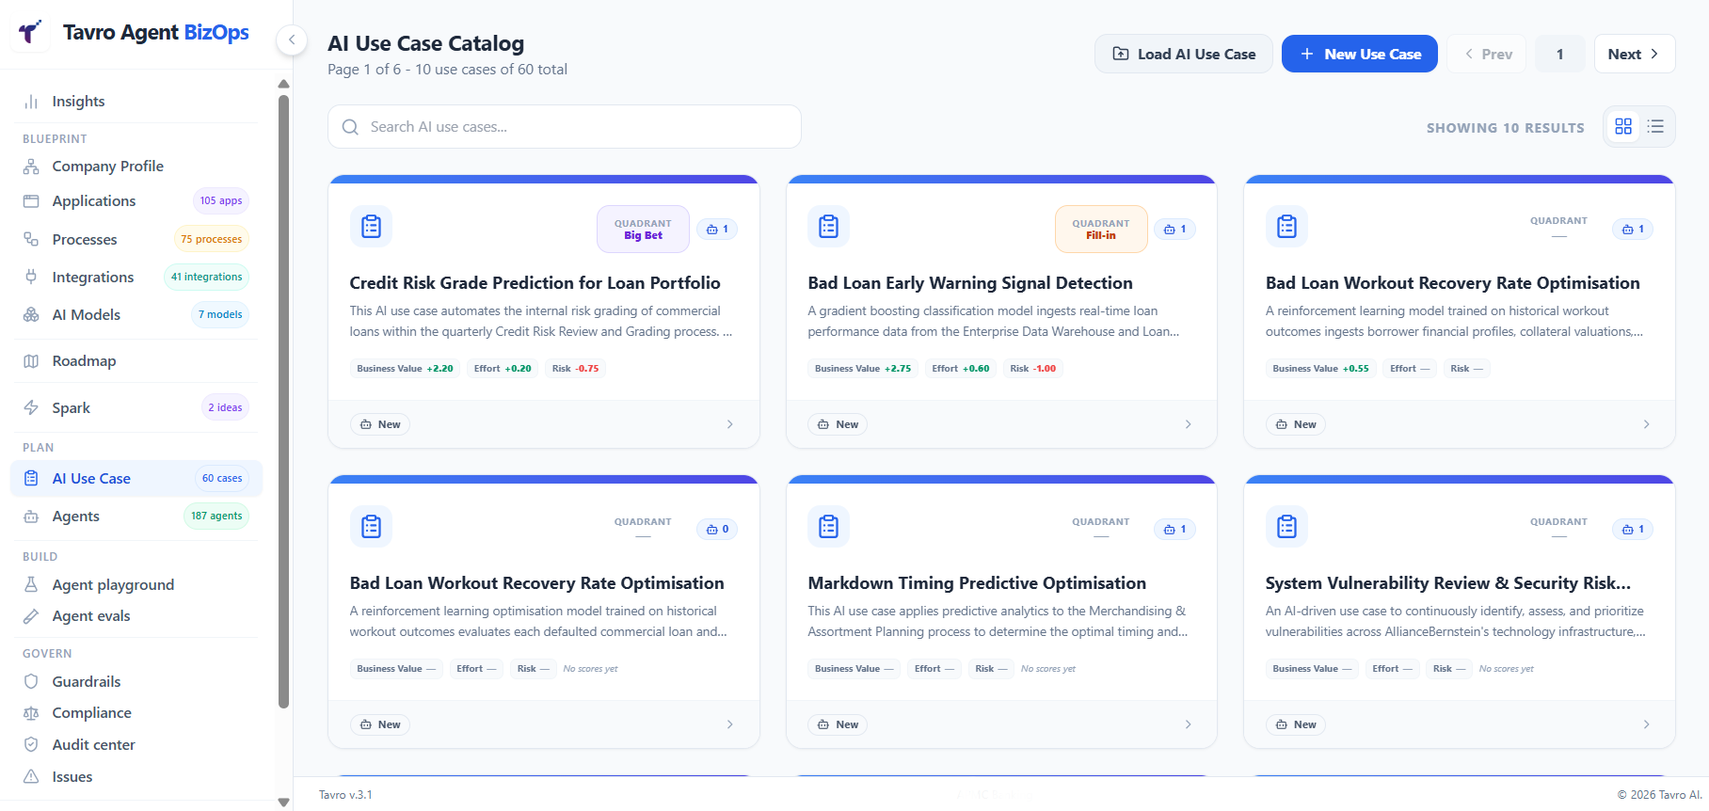
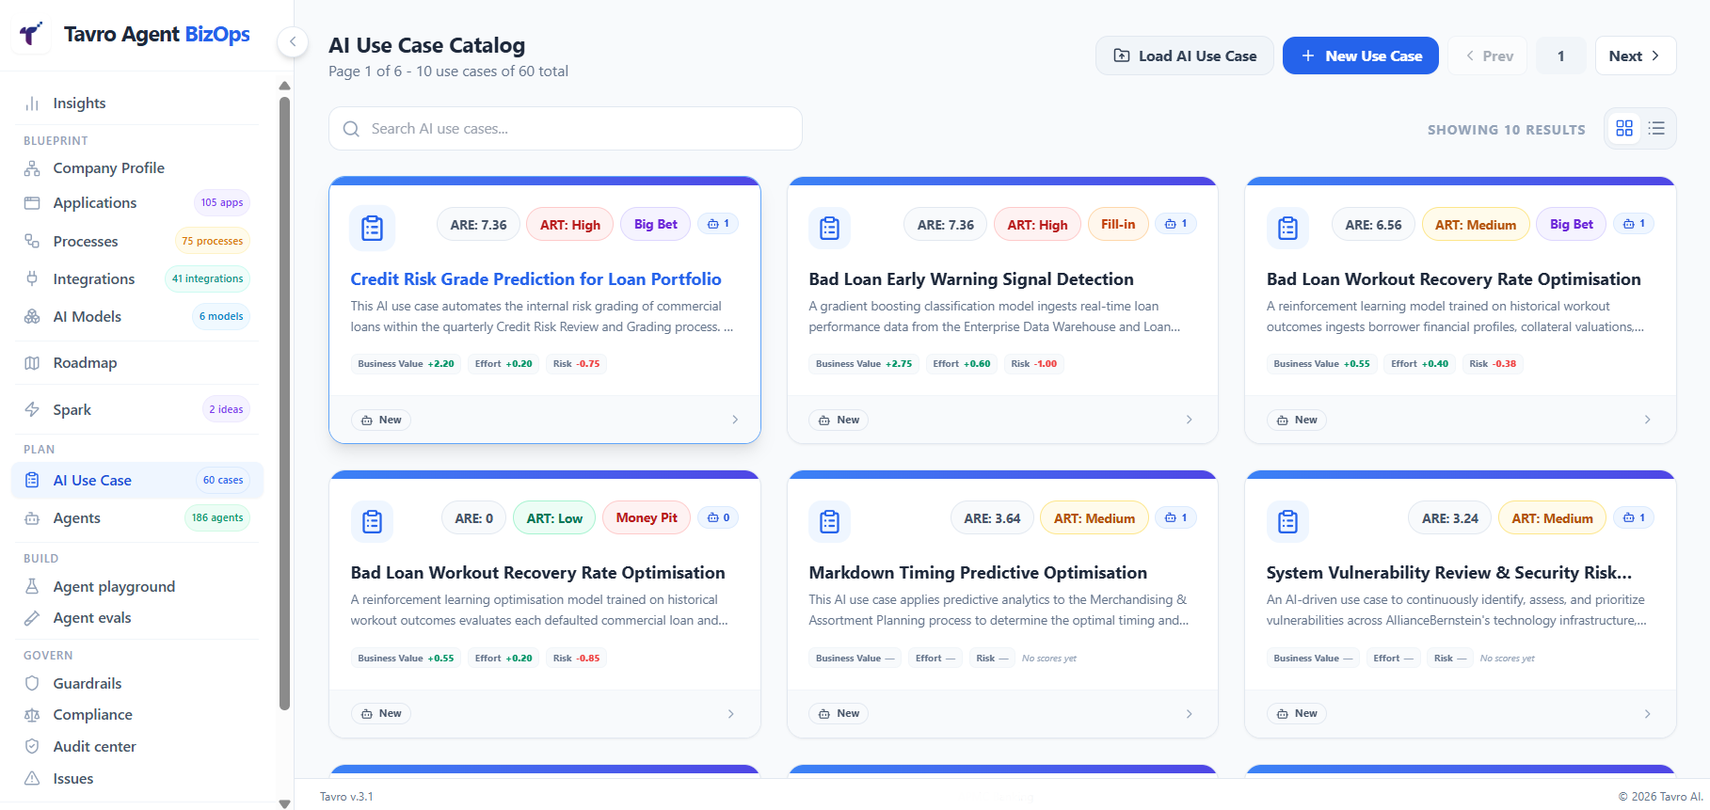
updated the document flow (#214)
* updated the document flow

* added the roadmap and spark in two different rows

diff --git a/tavro_app/src/pages/UserGuidePage.tsx b/tavro_app/src/pages/UserGuidePage.tsx
@@ -10,7 +10,7 @@ import {
     ShieldAlert, Unlink2, PlusCircle, Settings2, MessageSquare,
     ClipboardCheck, Loader2,
     Building2, Globe, RefreshCw, Layers,
-    Code2, Boxes, Map, TestTube2, Shield, TrendingUp, Activity,
+    Code2, Boxes, Map, TestTube2, Shield, TrendingUp, Activity, Cpu,
     Upload, Filter, Bookmark, FileText
 } from 'lucide-react';
 
@@ -150,16 +150,13 @@ const TOC_SECTIONS: TocSection[] = [
         ],
     },
     {
-        id: 'end-to-end-workflow', label: 'Blueprint → Spark → Production', icon: <ArrowRight size={14} />,
+        id: 'end-to-end-workflow', label: 'Blueprint → Spark → Plan → Roadmap', icon: <ArrowRight size={14} />,
         children: [
             { id: 'workflow-blueprint', label: 'Blueprint' },
             { id: 'workflow-spark', label: 'Spark' },
             { id: 'workflow-usecases', label: 'AI Use Cases' },
             { id: 'workflow-agents', label: 'Agents' },
             { id: 'workflow-roadmap', label: 'Roadmap' },
-            { id: 'workflow-build', label: 'Build' },
-            { id: 'workflow-deploy', label: 'Deploy' },
-            { id: 'workflow-govern', label: 'Govern' },
         ],
     },
     {
@@ -381,8 +378,15 @@ const UserGuidePage: React.FC = () => {
                                 <NavItem icon={<Workflow size={16} />} name="Processes" route="/processes" desc="Business workflows and their AI exposure" />
                                 <NavItem icon={<Plug size={16} />} name="Integrations" route="/integrations" desc="APIs and connectors used by agents" />
                                 <NavItem icon={<Boxes size={16} />} name="AI Models" route="/ai-models" desc="AI models registered for use across agents" />
-                                <NavItem icon={<Map size={16} />} name="Roadmap" route="/roadmap" desc="Priority × Risk matrix for AI adoption planning" enterprise />
-                                <NavItem icon={<Zap size={16} />} name="Spark" route="/spark" desc="AI-generated use case ideas from your business context" />
+
+                                <GroupLabel label="" />
+                                <div className="col-span-2">
+                                    <NavItem icon={<Map size={16} />} name="Roadmap" route="/roadmap" desc="Priority × Risk matrix for AI adoption planning" enterprise />
+                                </div>
+                                <div className="col-span-2 h-px bg-slate-100 dark:bg-slate-800" />
+                                <div className="col-span-2">
+                                    <NavItem icon={<Zap size={16} />} name="Spark" route="/spark" desc="AI-generated use case ideas from your business context" />
+                                </div>
 
                                 {/* Plan */}
                                 <GroupLabel label="Plan" />
@@ -436,15 +440,15 @@ const UserGuidePage: React.FC = () => {
 
                     <SectionHeading id="home-flow" level={3}>Flow Blueprint</SectionHeading>
                     <p className="text-sm text-slate-600 dark:text-slate-400 leading-relaxed mb-3">
-                        Below the KPIs, the Flow Blueprint shows your AI adoption pipeline as a five-stage funnel. Each stage links directly to its corresponding section:
+                        Below the KPIs, the Flow Blueprint shows your AI adoption pipeline as a six-stage funnel. Each stage links directly to its corresponding section:
                     </p>
                     <FlowDiagram steps={[
-                        { icon: <Network size={15} />, label: 'Blueprint', color: 'bg-violet-50 dark:bg-violet-900/30 border-violet-200 dark:border-violet-700 text-violet-700 dark:text-violet-300' },
+                        { icon: <Map size={15} />, label: 'Blueprint', color: 'bg-violet-50 dark:bg-violet-900/30 border-violet-200 dark:border-violet-700 text-violet-700 dark:text-violet-300' },
                         { icon: <Zap size={15} />, label: 'Spark', color: 'bg-violet-50 dark:bg-violet-900/30 border-violet-200 dark:border-violet-700 text-violet-700 dark:text-violet-300' },
                         { icon: <ClipboardList size={15} />, label: 'Plan', color: 'bg-blue-50 dark:bg-blue-900/30 border-blue-200 dark:border-blue-700 text-blue-700 dark:text-blue-300' },
-                        { icon: <FlaskConical size={15} />, label: 'Build', color: 'bg-emerald-50 dark:bg-emerald-900/30 border-emerald-200 dark:border-emerald-700 text-emerald-700 dark:text-emerald-300' },
-                        { icon: <Play size={15} />, label: 'Deploy', color: 'bg-slate-100 dark:bg-slate-800 border-slate-200 dark:border-slate-700 text-slate-700 dark:text-slate-300' },
-                        { icon: <ShieldCheck size={15} />, label: 'Govern', color: 'bg-rose-50 dark:bg-rose-900/30 border-rose-200 dark:border-rose-700 text-rose-700 dark:text-rose-300' },
+                        { icon: <Cpu size={15} />, label: 'Build', color: 'bg-emerald-50 dark:bg-emerald-900/30 border-emerald-200 dark:border-emerald-700 text-emerald-700 dark:text-emerald-300' },
+                        { icon: <Layers size={15} />, label: 'Deploy', color: 'bg-slate-100 dark:bg-slate-800 border-slate-200 dark:border-slate-700 text-slate-700 dark:text-slate-300' },
+                        { icon: <Activity size={15} />, label: 'Govern', color: 'bg-rose-50 dark:bg-rose-900/30 border-rose-200 dark:border-rose-700 text-rose-700 dark:text-rose-300' },
                     ]} />
                     <ul className="mt-2 space-y-1.5 text-sm text-slate-600 dark:text-slate-400 list-disc list-inside">
                         <li><strong>Blueprint</strong> — Map your company's applications, processes, integrations, and AI models</li>
@@ -550,27 +554,23 @@ const UserGuidePage: React.FC = () => {
                         </div>
                     </div>
 
-                    {/* ── Blueprint → Spark → Production ── */}
-                    <SectionHeading id="end-to-end-workflow" level={2} icon={<ArrowRight size={18} />}>Blueprint → Spark → Production</SectionHeading>
+                    {/* ── Blueprint → Spark → Plan → Roadmap ── */}
+                    <SectionHeading id="end-to-end-workflow" level={2} icon={<ArrowRight size={18} />}>Blueprint → Spark → Plan → Roadmap</SectionHeading>
                     <p className="text-sm text-slate-600 dark:text-slate-400 leading-relaxed mb-4">
-                        Tavro is designed around a structured journey — from building your organizational foundation to governing deployed AI agents. Each stage builds on the previous one, so working through them in order gives you the richest, most grounded experience.
+                        Tavro is designed around a structured journey — from building your organizational foundation to formalizing initiatives on the Roadmap. Each stage builds on the previous one, so working through them in order gives you the richest, most grounded experience. Once initiatives are prioritized, they move on to the separate <strong>Build</strong> and <strong>Govern</strong> stages.
                     </p>
                     <FlowDiagram steps={[
                         { icon: <Network size={15} />, label: 'Blueprint', color: 'bg-violet-50 dark:bg-violet-950/40 border-violet-200 dark:border-violet-800 text-violet-700 dark:text-violet-300' },
                         { icon: <Zap size={15} />, label: 'Spark', color: 'bg-violet-50 dark:bg-violet-950/40 border-violet-200 dark:border-violet-800 text-violet-700 dark:text-violet-300' },
                         { icon: <ClipboardList size={15} />, label: 'Plan', color: 'bg-blue-50 dark:bg-blue-950/40 border-blue-200 dark:border-blue-800 text-blue-700 dark:text-blue-300' },
-                        { icon: <FlaskConical size={15} />, label: 'Build', color: 'bg-emerald-50 dark:bg-emerald-950/40 border-emerald-200 dark:border-emerald-800 text-emerald-700 dark:text-emerald-300' },
-                        { icon: <Play size={15} />, label: 'Deploy', color: 'bg-slate-100 dark:bg-slate-800 border-slate-300 dark:border-slate-600 text-slate-700 dark:text-slate-300' },
-                        { icon: <ShieldCheck size={15} />, label: 'Govern', color: 'bg-rose-50 dark:bg-rose-950/40 border-rose-200 dark:border-rose-800 text-rose-700 dark:text-rose-300' },
+                        { icon: <Map size={15} />, label: 'Roadmap', color: 'bg-indigo-50 dark:bg-indigo-950/40 border-indigo-200 dark:border-indigo-800 text-indigo-700 dark:text-indigo-300' },
                     ]} />
                     <div className="mt-4 grid grid-cols-1 gap-2">
                         {[
                             { icon: <Network size={14} />, stage: 'Blueprint', color: 'text-violet-700 dark:text-violet-300', desc: 'Map your company\'s applications, processes, integrations, and AI models' },
                             { icon: <Zap size={14} />, stage: 'Spark', color: 'text-violet-700 dark:text-violet-300', desc: 'Generate AI use case ideas from your company blueprint' },
                             { icon: <ClipboardList size={14} />, stage: 'Plan', color: 'text-blue-700 dark:text-blue-300', desc: 'Formalize ideas into AI Use Cases and create Agents' },
-                            { icon: <FlaskConical size={14} />, stage: 'Build', color: 'text-emerald-700 dark:text-emerald-300', desc: 'Test and iterate on agents in the Playground' },
-                            { icon: <Play size={14} />, stage: 'Deploy', color: 'text-slate-700 dark:text-slate-300', desc: 'Move agents into production with your infrastructure' },
-                            { icon: <ShieldCheck size={14} />, stage: 'Govern', color: 'text-rose-700 dark:text-rose-300', desc: 'Monitor risk, run compliance audits, and manage issues' },
+                            { icon: <Map size={14} />, stage: 'Roadmap', color: 'text-indigo-700 dark:text-indigo-300', desc: 'View your entire AI use case portfolio on a Priority × Risk matrix' },
                         ].map(({ icon, stage, color, desc }) => (
                             <div key={stage} className="flex items-start gap-2.5 text-sm">
                                 <span className={`mt-0.5 flex-shrink-0 ${color}`}>{icon}</span>
@@ -750,6 +750,21 @@ const UserGuidePage: React.FC = () => {
                         </p>
                         <ScreenshotFrame title="Use Case — Overview" src="/assets/images/UseCaseDetail.png" alt="Use Case overview tab" />
 
+                        <p className="text-sm font-semibold text-slate-700 dark:text-slate-200 mt-4 mb-1">Agent Risk Exposure (ARE) &amp; Agent Risk Tier (ART)</p>
+                        <p className="text-sm text-slate-600 dark:text-slate-400 leading-relaxed">
+                            Every use case also carries two auto-computed risk rollups, shown as badges next to the title and in a dedicated card on the Overview tab: <strong>ARE (Agent Risk Exposure)</strong> is the highest Blended Risk score among all agents linked to the use case, and <strong>ART (Agent Risk Tier)</strong> classifies that score into a band.
+                        </p>
+                        <div className="flex flex-wrap gap-2 mt-2 mb-3">
+                            <Badge color="green">Low — ARE &lt; 3</Badge>
+                            <Badge color="amber">Medium — ARE 3 to &lt;7</Badge>
+                            <Badge color="red">High — ARE 7 to &lt;9</Badge>
+                            <Badge color="red">Critical — ARE ≥ 9</Badge>
+                            <Badge color="slate">None — no agents linked yet</Badge>
+                        </div>
+                        <p className="text-sm text-slate-600 dark:text-slate-400 leading-relaxed">
+                            Both values recalculate automatically — there's no button to click. Every time an agent is linked or unlinked in the <strong>AI Agents</strong> tab, Tavro re-scans the linked agents' latest Risk Assessments, takes the maximum Blended Risk score, and refreshes ARE, ART, the associated agent count, and the Inherent/Residual Risk Classification shown alongside them on the Overview tab. The same ARE and ART values also appear as columns/badges on the <strong>AI Use Cases</strong> catalog (grid and list views), so you can scan portfolio-wide risk exposure without opening each use case.
+                        </p>
+
                         <p className="text-sm font-semibold text-slate-700 dark:text-slate-200 mt-4 mb-1">Use Case Detail — Risk Assessment</p>
                         <p className="text-sm text-slate-600 dark:text-slate-400 leading-relaxed">
                             The <strong>Risk Assessment</strong> tab scores the use case itself — independent of any specific agent. Tavro evaluates inherent risk based on scope, data touched, and processes automated across three dimensions: <em>Blended</em> (overall), <em>AIVSS</em> (AI-specific vulnerability), and <em>Regulatory</em> (framework exposure). Run this before creating agents — a high-risk use case warrants more thorough Evals and stricter Guardrails downstream.
@@ -767,7 +782,7 @@ const UserGuidePage: React.FC = () => {
                     <div id="workflow-agents" className="scroll-mt-6" />
                     <Step n={4} title="Agents — Link to Use Case and Explore the Context Graph">
                         <p className="text-sm text-slate-600 dark:text-slate-400 leading-relaxed">
-                            Once a use case exists, the next step is to populate it with agents.
+                            Once a use case exists, the next step is to populate it with agents. Each link/unlink also refreshes the use case's <strong>ARE</strong> and <strong>ART</strong> rollups (see above) — so as you connect agents with completed Risk Assessments, the use case's overall risk exposure updates automatically.
                         </p>
 
                         <FlowDiagram steps={[
@@ -800,7 +815,7 @@ const UserGuidePage: React.FC = () => {
 
                         <p className="text-sm font-semibold text-slate-700 dark:text-slate-200 mt-5 mb-1">Exploring Agent Detail</p>
                         <p className="text-sm text-slate-600 dark:text-slate-400 leading-relaxed">
-                            Click any agent to open its detail page. The header shows the agent name, status, and quick-action buttons — <strong>Playground</strong>, <strong>Risk Assessment</strong>, Agent Card export, and <strong>Edit</strong>.
+                            Click any agent to open its detail page. The header shows the agent name, status, and quick-action buttons — <strong>Playground</strong>, <strong>Risk Assessment</strong>, Agent Card, and <strong>Edit</strong>.
                         </p>
                         <ScreenshotFrame title="Agent Detail Page" src="/assets/images/Agent Detail Page.png" alt="Agent detail page" />
 
@@ -838,85 +853,21 @@ const UserGuidePage: React.FC = () => {
                         <p className="text-sm text-slate-600 dark:text-slate-400 leading-relaxed mt-3">
                             Each use case card is positioned based on its computed scores. The four quadrants guide your next actions:
                         </p>
-                        <ul className="space-y-1.5 text-sm text-slate-600 dark:text-slate-400 list-disc list-inside mt-2">
-                            <li><strong>Quick Wins</strong> (High Priority, Low Risk) — start here, highest return for least governance effort</li>
-                            <li><strong>Major Bets</strong> (High Priority, High Risk) — strategic initiatives requiring mitigation planning before build</li>
-                            <li><strong>Fill-ins</strong> (Low Priority, Low Risk) — progress when capacity allows</li>
-                            <li><strong>Reconsider</strong> (Low Priority, High Risk) — revisit scope or deprioritize entirely</li>
-                        </ul>
+                        <div className="space-y-1.5 mt-2">
+                            {[
+                                { dot: 'bg-emerald-500', name: 'Quick Wins', meta: '(High Priority, Low Risk)', desc: 'start here, highest return for least governance effort' },
+                                { dot: 'bg-amber-500', name: 'Major Bets', meta: '(High Priority, High Risk)', desc: 'strategic initiatives requiring mitigation planning before build' },
+                                { dot: 'bg-blue-500', name: 'Fill-ins', meta: '(Low Priority, Low Risk)', desc: 'progress when capacity allows' },
+                                { dot: 'bg-red-500', name: 'Reconsider', meta: '(Low Priority, High Risk)', desc: 'revisit scope or deprioritize entirely' },
+                            ].map(({ dot, name, meta, desc }) => (
+                                <div key={name} className="flex items-start gap-2.5 text-sm text-slate-600 dark:text-slate-400">
+                                    <span className={`mt-1.5 w-2.5 h-2.5 rounded-full flex-shrink-0 ${dot}`} />
+                                    <span><strong className="text-slate-800 dark:text-slate-200">{name}</strong> {meta} — {desc}</span>
+                                </div>
+                            ))}
+                        </div>
                         <p className="text-sm text-slate-600 dark:text-slate-400 leading-relaxed mt-3">
                             Priority and Risk scoring weights are fully configurable under <strong>Settings → Roadmap Configuration</strong> to reflect your organization's strategic priorities.
-                        </p>
-                    </Step>
-
-                    {/* ── Stage 6: Build ── */}
-                    <div id="workflow-build" className="scroll-mt-6" />
-                    <Step n={6} title="Build — Test and Iterate in the Playground">
-                        <p className="text-sm text-slate-600 dark:text-slate-400 leading-relaxed">
-                            Before deploying an agent, test it thoroughly in the <strong>Build</strong> stage. From any Agent Detail page, click <strong>Playground</strong> to open the interactive testing environment.
-                        </p>
-
-                        <p className="text-sm font-semibold text-slate-700 dark:text-slate-200 mt-4 mb-1">Agent Playground</p>
-                        <p className="text-sm text-slate-600 dark:text-slate-400 leading-relaxed">
-                            The Playground gives you a live chat interface backed by the agent's actual configuration. Set the LLM provider, model, system prompt, temperature, and token limits in the left panel. Send a message to run a test session. Switch to the <strong>Observations</strong> tab to see every tool call, reasoning step, and intermediate output the agent produces. After the session ends, the <strong>Session Summary</strong> gives a structured recap of what happened.
-                        </p>
-                        <ScreenshotFrame title="Build — Agent Playground" src="/assets/images/Agent Playground.png" alt="Agent Playground" />
-
-                        <div className="mt-4 flex items-center gap-2">
-                            <p className="text-sm font-semibold text-slate-700 dark:text-slate-200">Agent Evals</p>
-                            <Badge color="violet">Coming Soon</Badge>
-                        </div>
-                        <p className="text-sm text-slate-600 dark:text-slate-400 leading-relaxed mt-1">
-                            Structured, repeatable evaluation suites for measuring agent quality — coming in a future release.
-                        </p>
-                    </Step>
-
-                    {/* ── Stage 7: Deploy ── */}
-                    <div id="workflow-deploy" className="scroll-mt-6" />
-                    <Step n={7} title="Deploy — Move Validated Agents to Production">
-                        <p className="text-sm text-slate-600 dark:text-slate-400 leading-relaxed">
-                            Once an agent passes Playground testing and Evals, advance its stage to <strong>Deploy</strong>. Confirm the production LLM provider and model — this may differ from testing if cost or latency requirements are different in production.
-                        </p>
-
-                        <p className="text-sm font-semibold text-slate-700 dark:text-slate-200 mt-4 mb-1">Export Agent Card</p>
-                        <p className="text-sm text-slate-600 dark:text-slate-400 leading-relaxed">
-                            Click <strong>Export Agent Card</strong> to generate a portable specification document — model, system prompt, tool definitions, linked applications and processes, and governance metadata. Hand this to your engineering team for integration into existing orchestration layers, API gateways, or workflow automation tools.
-                        </p>
-                    </Step>
-
-                    {/* ── Stage 8: Govern ── */}
-                    <div id="workflow-govern" className="scroll-mt-6" />
-                    <Step n={8} title="Govern — Monitor Risk, Compliance, and Issues">
-                        <p className="text-sm text-slate-600 dark:text-slate-400 leading-relaxed">
-                            Governance is an ongoing responsibility for every deployed agent. Navigate to <strong>Govern</strong> to manage risk, compliance, behavioral guardrails, and open issues across your entire agent roster.
-                        </p>
-
-                        <p className="text-sm font-semibold text-slate-700 dark:text-slate-200 mt-4 mb-1">Risk Analysis</p>
-                        <p className="text-sm text-slate-600 dark:text-slate-400 leading-relaxed">
-                            Run a <strong>Risk Assessment</strong> on any agent to get Blended, AIVSS, and Regulatory scores. All agents are plotted on a Risk vs. Impact scatter chart so you can immediately identify high-risk / high-impact agents needing attention.
-                        </p>
-                        <ScreenshotFrame title="Govern — Risk Analysis" src="/assets/images/AI Risk Assessment.png" alt="AI Risk Assessment" />
-
-                        <p className="text-sm font-semibold text-slate-700 dark:text-slate-200 mt-4 mb-1">Compliance &amp; Audit</p>
-                        <p className="text-sm text-slate-600 dark:text-slate-400 leading-relaxed">
-                            Schedule and run compliance audits against regulatory frameworks — EU AI Act, GDPR, SOC 2, HIPAA. Each audit produces control findings by severity. Review, assign owners, and mark items resolved. The audit history provides an auditable compliance trail over time.
-                        </p>
-                        <ScreenshotFrame title="Govern — Compliance & Audit" src="/assets/images/ComplianceAudit.png" alt="Compliance Audit view" />
-
-                        <div className="mt-4 flex items-center gap-2">
-                            <p className="text-sm font-semibold text-slate-700 dark:text-slate-200">Guardrails</p>
-                            <Badge color="violet">Coming Soon</Badge>
-                        </div>
-                        <p className="text-sm text-slate-600 dark:text-slate-400 leading-relaxed mt-1">
-                            Behavioral constraints enforced at agent runtime — coming in a future release.
-                        </p>
-
-                        <div className="mt-4 flex items-center gap-2">
-                            <p className="text-sm font-semibold text-slate-700 dark:text-slate-200">Issues</p>
-                            <Badge color="violet">Coming Soon</Badge>
-                        </div>
-                        <p className="text-sm text-slate-600 dark:text-slate-400 leading-relaxed mt-1">
-                            Centralized governance issue tracker — coming in a future release.
                         </p>
                     </Step>
 
@@ -928,8 +879,9 @@ const UserGuidePage: React.FC = () => {
 
                     <SectionHeading id="build-playground" level={3}>Agent Playground</SectionHeading>
                     <p className="text-sm text-slate-600 dark:text-slate-400 leading-relaxed mb-3">
-                        The Agent Playground is the hands-on workspace where you prototype, test, and iterate on agents before deploying them. Each agent runs in a full session backed by its live configuration. Open the Playground from any Agent Detail page or from <strong>Build → Agent Playground</strong> in the sidebar.
+                        The Agent Playground is the hands-on workspace where you prototype, test, and iterate on agents before deploying them. Each agent runs in a full session backed by its live configuration. Open the Playground from any Agent Detail page by clicking the <strong>Playground</strong> button in the header, or from <strong>Build → Agent Playground</strong> in the sidebar.
                     </p>
+                    <ScreenshotFrame title="Build — Agent Playground" src="/assets/images/Agent Playground.png" alt="Agent Playground" />
                     <p className="text-sm text-slate-600 dark:text-slate-400 leading-relaxed mb-4">
                         The Playground header shows the active agent name, its mode badge (<Badge color="blue">CODE-DRIVEN</Badge>), the selected LLM and model, and the <UIButton color="blue" icon={<Play size={11}/>}>Start session</UIButton> button. The workspace is organized into five tabs:
                     </p>
